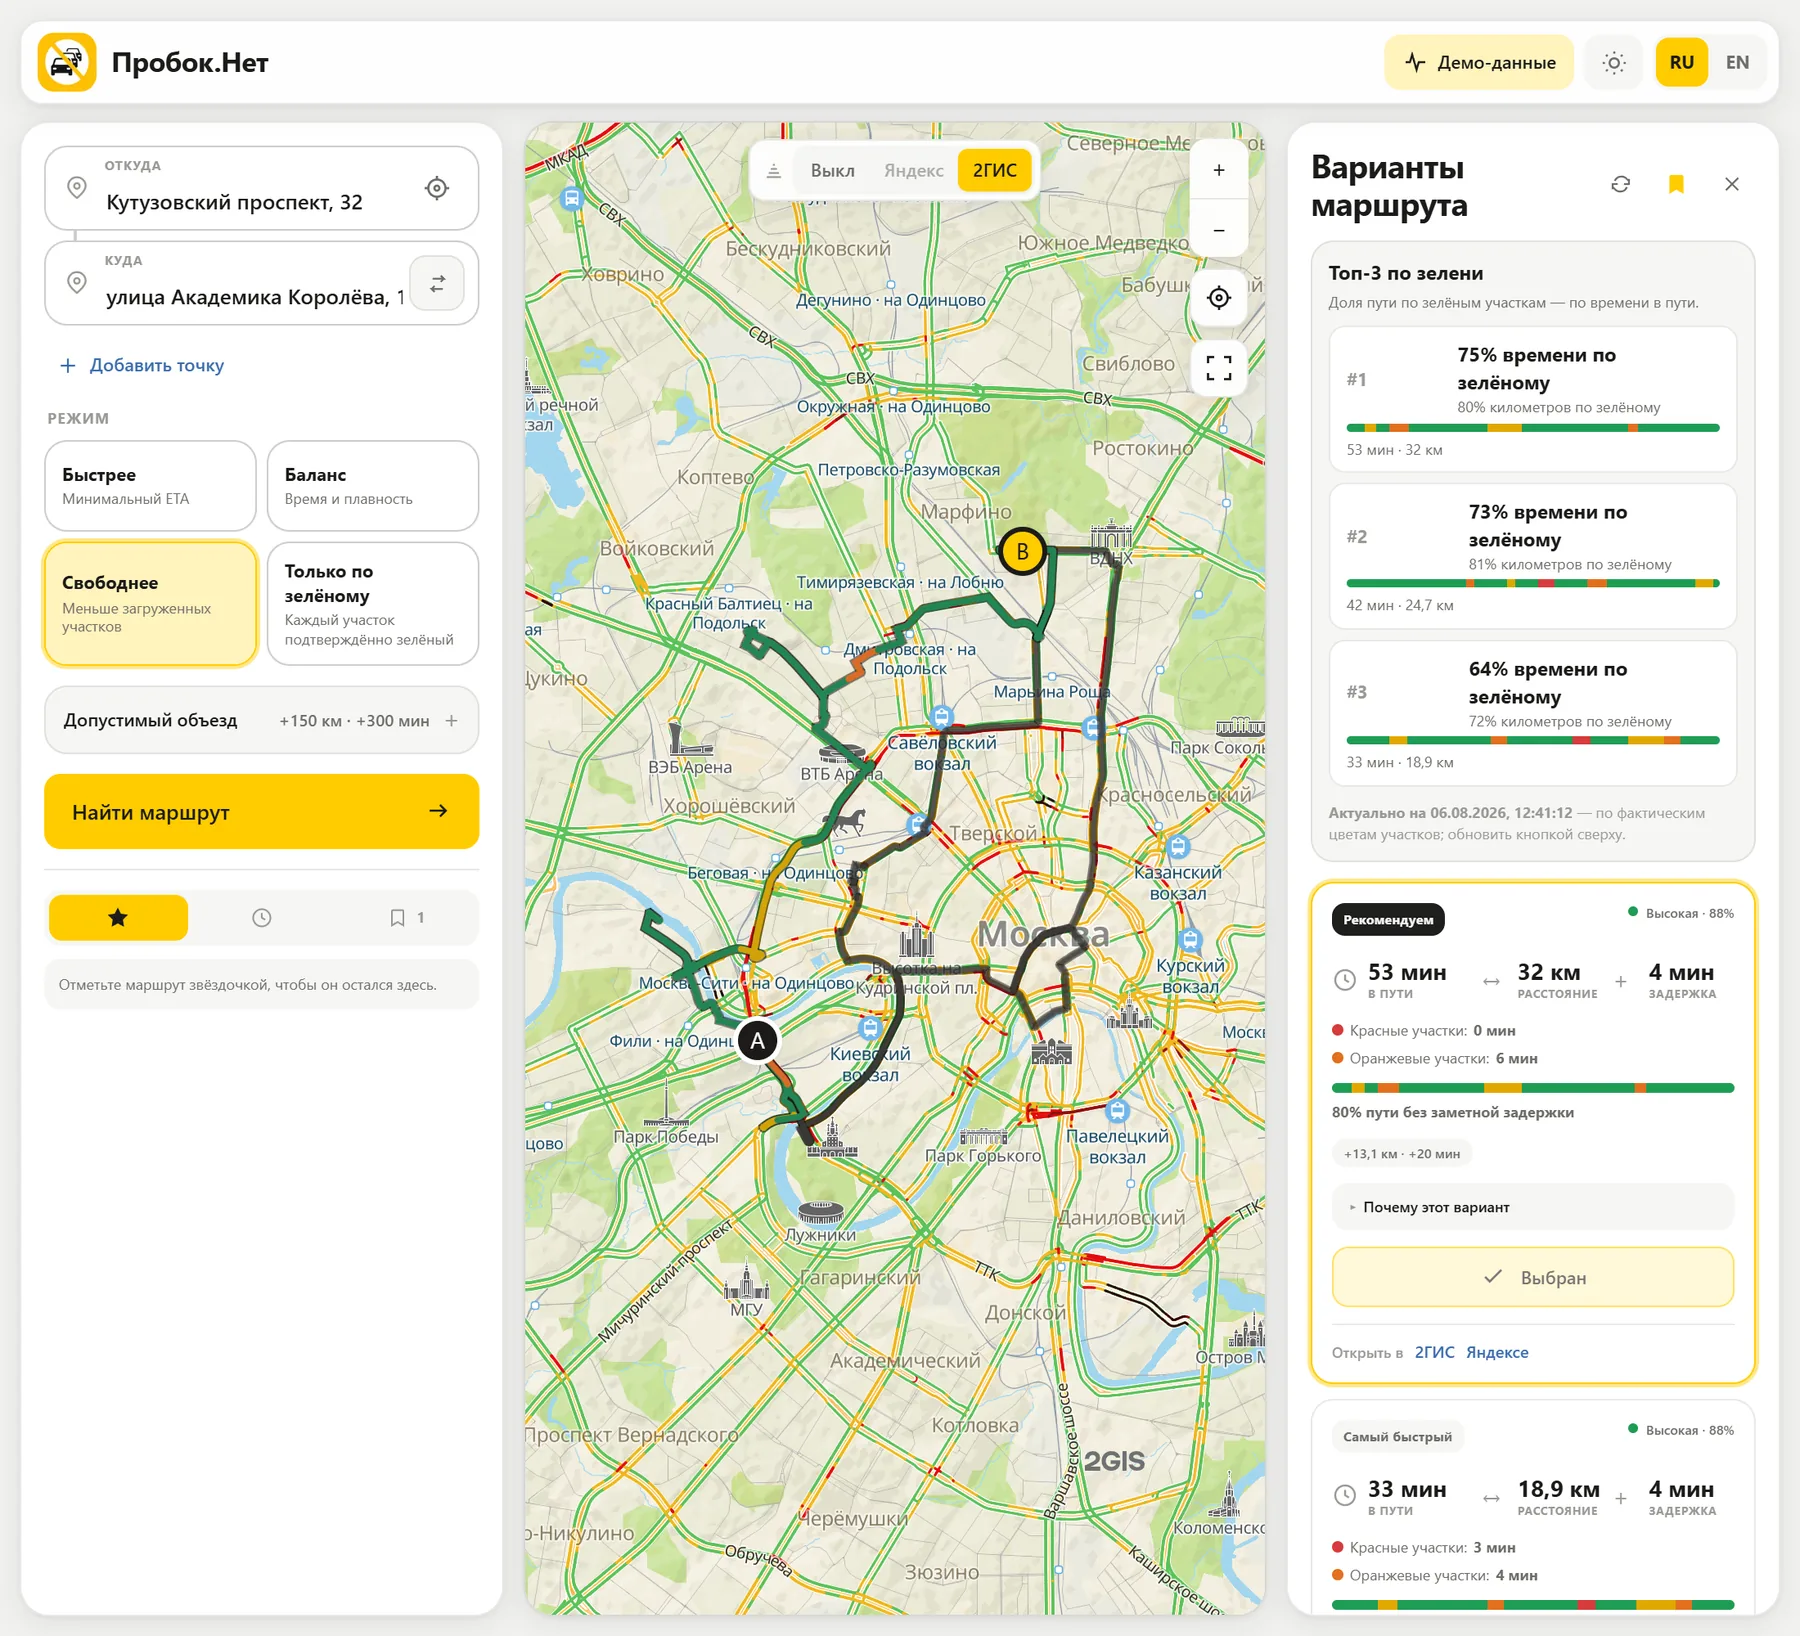
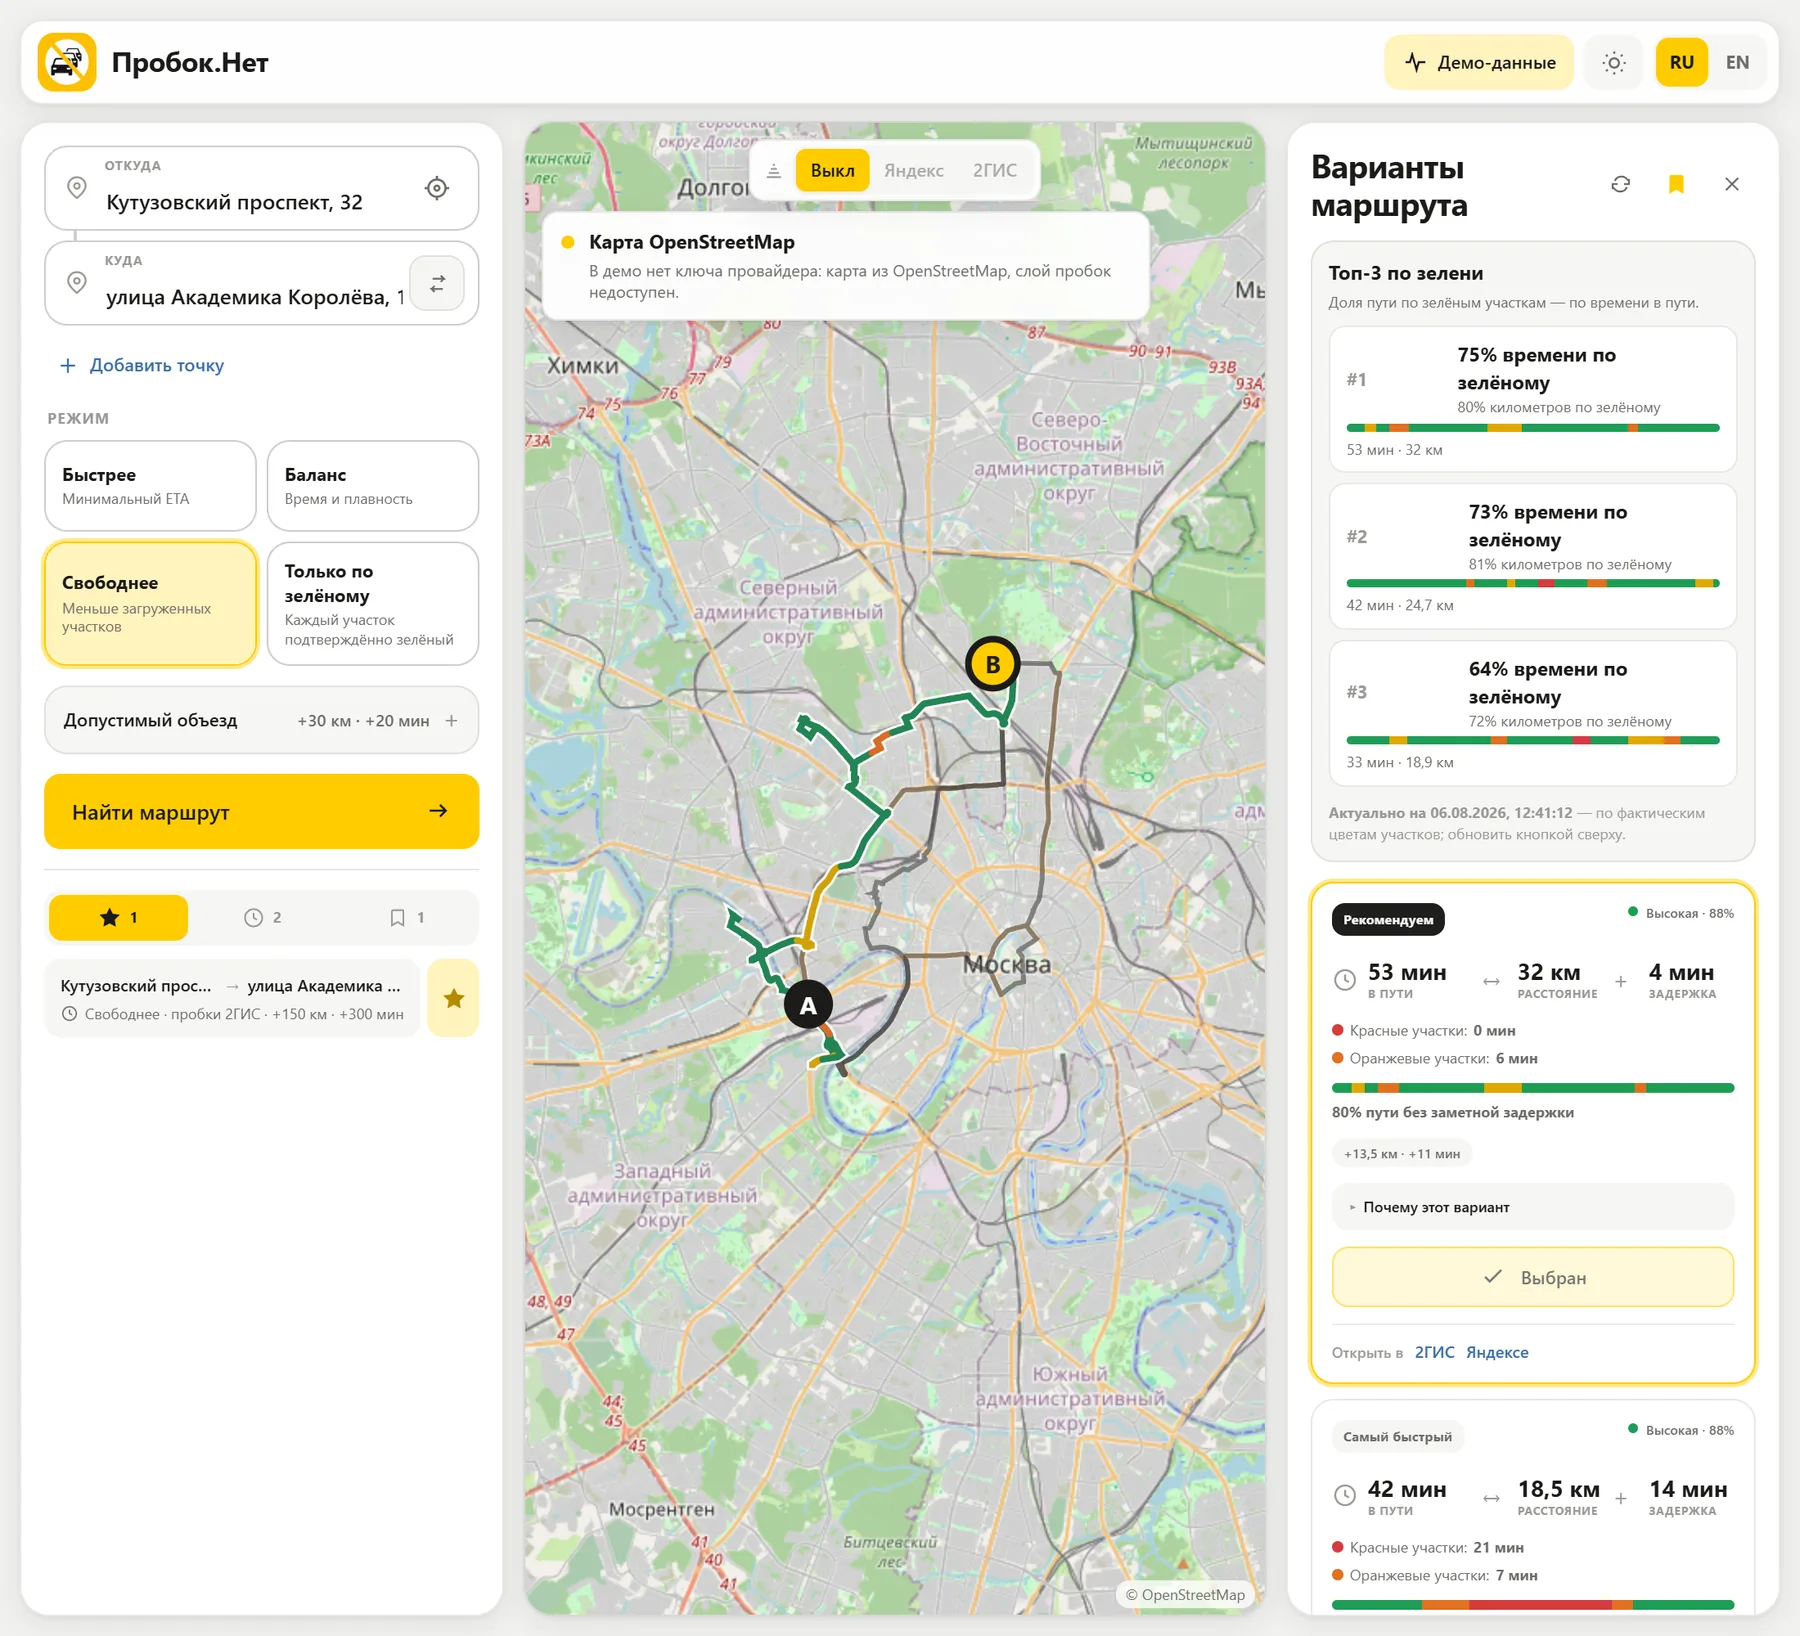
README: lead with the trade the product exists to make
A table nobody has to interpret: 42 minutes with 21 of them standing, against 53
minutes with none. The screenshot underneath shows both lines on the same map,
the navigator's straight through the red corridor and ours around it.

Screenshots are re-shot from the published demo, so what the README shows is
what the link opens.

diff --git a/README.md b/README.md
@@ -11,14 +11,36 @@
 
 ### [→ Открыть демо](https://beztebya666.github.io/Probok.Net/)
 
-<sub>Демо работает целиком в браузере на фиксированных данных: боевые запросы к API выключены,
-ключей в нём нет.</sub>
+<sub>Открывается сразу на разобранном примере: маршрут, топ-3, избранное и закладки уже заполнены.
+Всё кликается, боевых запросов не делает, ключей не содержит.</sub>
 
 </div>
 
 <p align="center">
   <img src="docs/media/desktop-light.webp" width="100%" alt="Пробок.Нет: планировщик, карта с пробками и топ-3 маршрута по зелени">
 </p>
+
+---
+
+## Вот ради чего это всё
+
+Один и тот же путь, два ответа:
+
+| | Обычный навигатор | Пробок.Нет |
+|---|---|---|
+| Время | **42 мин** | 53 мин |
+| Расстояние | 18,5 км | 32 км |
+| **Стоим в красном** | **21 мин** | **0 мин** |
+| Оранжевые участки | 7 мин | 6 мин |
+| Доля пути без заметной задержки | 25 % | **80 %** |
+
+Навигатор экономит 11 минут и отдаёт за них 21 минуту стояния. Пробок.Нет делает
+крюк в 13,5 км вокруг затора — и едет всю дорогу.
+
+<img src="docs/media/detour.webp" width="100%" alt="Зелёный маршрут обходит затор: серая линия навигатора идёт напрямую через красный коридор, зелёная — в объезд">
+
+Серая линия — прямой путь через центр, тот самый с 21 минутой красного. Зелёная —
+что нашёл поиск: длиннее, севернее, мимо затора.
 
 ---
 
@@ -162,8 +184,9 @@
 </tr>
 </table>
 
-> Скриншоты и клипы сняты в демо-режиме (в шапке видна плашка «Демо-данные»): цвета участков
-> здесь — фиксированный синтетический набор, геометрия дорог настоящая, карта настоящая.
+> Скриншоты и клипы сняты в демо-режиме (в шапке видна плашка «Демо-данные»): геометрия дорог и
+> карта настоящие, цвета участков — фиксированный синтетический набор. Демо ходит по картам
+> OpenStreetMap: ключа провайдера в публичной статике нет, поэтому слой пробок там недоступен.
 > Так документацию можно пересобрать в любой момент, не тратя дневную квоту Routing API.
 > Пересборка: `tools/docs-media/` — [build-demo-analysis.mjs](tools/docs-media/build-demo-analysis.mjs),
 > [shoot.mjs](tools/docs-media/shoot.mjs), [record.mjs](tools/docs-media/record.mjs),
